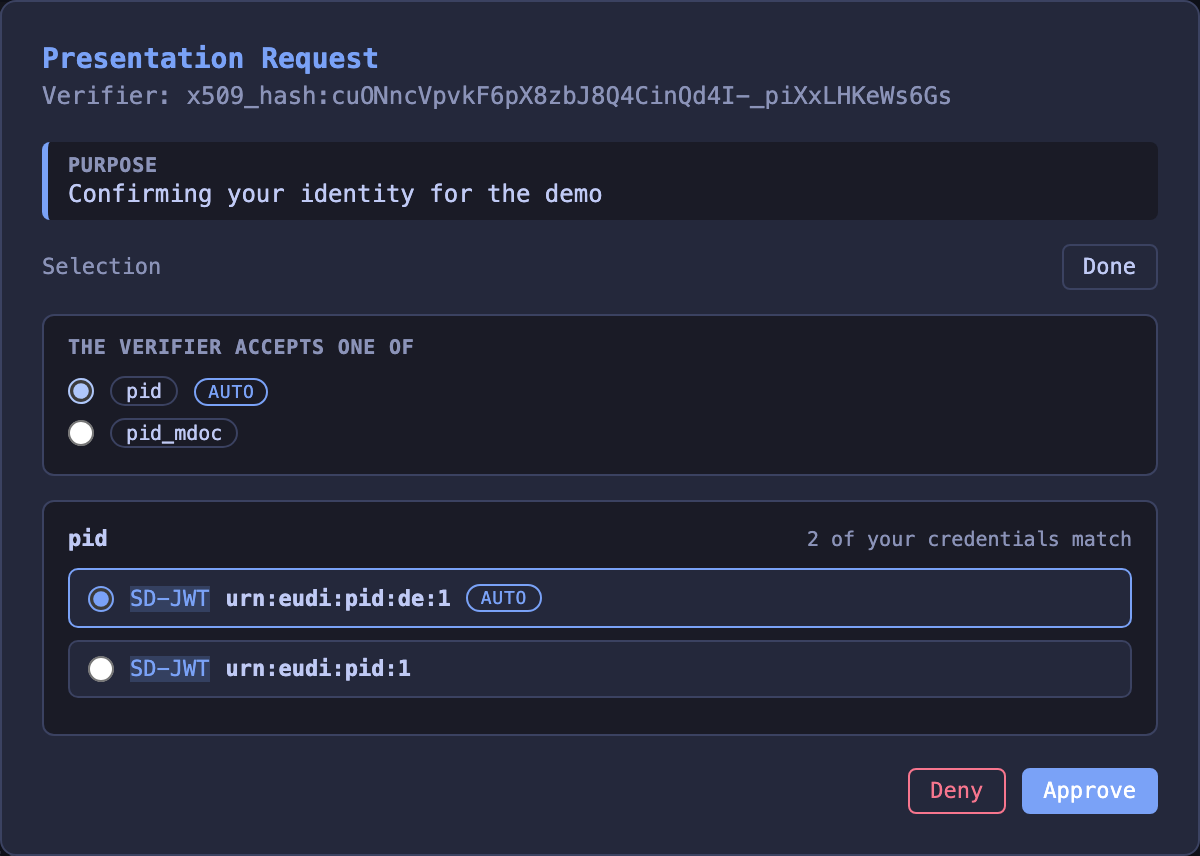
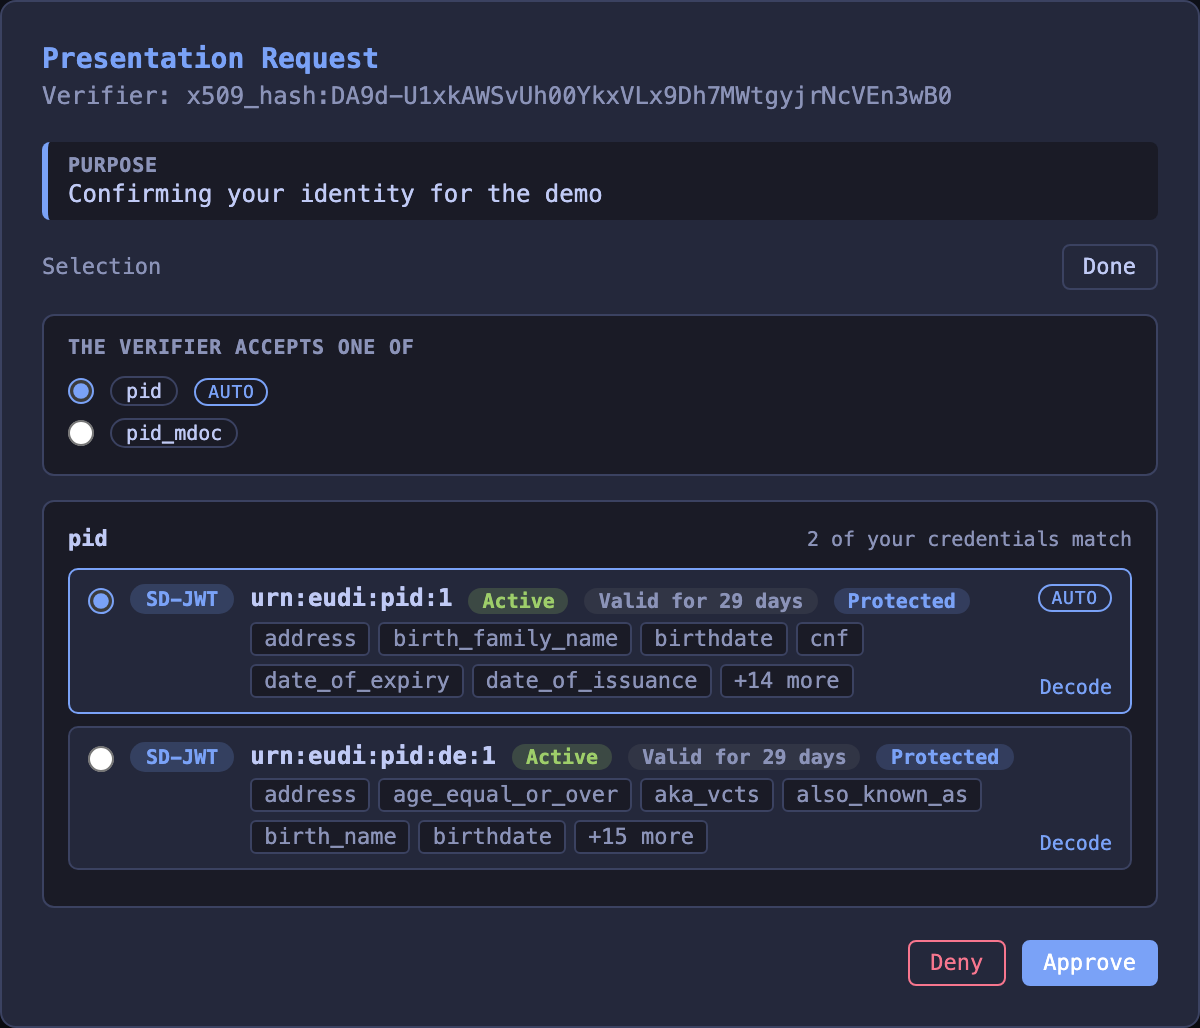
fix: consent picker renders candidates like the wallet overview

diff --git a/internal/wallet/static/app.js b/internal/wallet/static/app.js
@@ -189,6 +189,29 @@
     }
   }
 
+  // Whole credentials the consent dialog's Edit view needs for its candidate
+  // cards, by credential id. Neither of the things already loaded can stand in
+  // for them: a consent request carries only the claims the verifier asked
+  // for, and the credential list holds one page. A credential that could not
+  // be read is remembered as null, so its card falls back instead of the
+  // dialog asking for it again on every render.
+  const candidateDetails = new Map();
+
+  async function loadCandidateDetails(ids) {
+    const missing = ids.filter(id => !candidateDetails.has(id));
+    if (missing.length === 0) return false;
+    await Promise.all(missing.map(async id => {
+      try {
+        const resp = await fetch('/api/credentials/' + encodeURIComponent(id));
+        candidateDetails.set(id, resp.ok ? await resp.json() : null);
+      } catch (e) {
+        console.error('Loading credential ' + id + ' failed:', e);
+        candidateDetails.set(id, null);
+      }
+    }));
+    return true;
+  }
+
   function renderPager() {
     const pager = document.getElementById('cred-pager');
     const pages = Math.ceil(credentialTotal / CREDENTIALS_PER_PAGE);
@@ -296,6 +319,74 @@
     return shown + (rest > 0 ? '<span class="claim-tag">+' + rest + ' more</span>' : '');
   }
 
+  // The body of a credential card: the format badge, the type line with its
+  // status, expiry and protected badges, and the claim names with their
+  // namespaces. The credential list and the consent dialog's Edit view both
+  // render candidates with this, so a credential looks the same wherever the
+  // wallet names it. That matters most for the pair the picker used to lose:
+  // two mdoc PIDs share a doctype and a format, and the namespace chip is the
+  // one thing on the card that tells them apart.
+  //
+  // idPrefix keeps the badge ids unique, because the credential list stays in
+  // the DOM behind the consent overlay and the same credential can be on
+  // screen twice. withClaims leaves the claim names off, for a caller holding
+  // only part of them, where a subset would read as the whole set.
+  function credentialCardBody(cred, idPrefix, withClaims) {
+    const formatClass = cred.format === 'dc+sd-jwt' ? 'format-sdjwt' : cred.format === 'jwt_vc_json' ? 'format-jwt' : 'format-mdoc';
+    const formatLabel = cred.format === 'dc+sd-jwt' ? 'SD-JWT' : cred.format === 'jwt_vc_json' ? 'JWT VC' : 'mDoc';
+    const typeLabel = cred.vct || cred.doctype || cred.format;
+    const isProtected = cred.protected === true;
+
+    // Stable identity and selection hooks for UI automation
+    const dataset = {
+      credentialId: cred.id,
+      format: formatLabel === 'SD-JWT' ? 'sdjwt' : formatLabel === 'JWT VC' ? 'jwt' : 'mdoc',
+      status: 'none',
+    };
+    if (isProtected) dataset.protected = 'true';
+    if (cred.vct) dataset.vct = cred.vct;
+    if (cred.doctype) dataset.doctype = cred.doctype;
+
+    // Protected credentials are the shared baseline: the server refuses to
+    // delete or revoke them, so do not offer buttons that would only 403.
+    const protectedBadge = isProtected
+      ? '<span class="status-badge status-protected" id="' + idPrefix + 'protected-' + cred.id + '"' +
+        ' title="Part of this wallet\'s baseline. It cannot be deleted or revoked' +
+        ' through the UI or the API, only by editing the wallet file.">Protected</span>'
+      : '';
+
+    // Status badge: managed entries show live status, foreign status lists
+    // get a badge of their own.
+    const st = cred.status;
+    let statusBadge = '';
+    if (st && st.managed) {
+      const revoked = st.status === 1;
+      dataset.status = revoked ? 'revoked' : 'active';
+      statusBadge = '<span class="status-badge ' + (revoked ? 'status-revoked' : 'status-active') + '" id="' + idPrefix + 'status-' + cred.id + '" title="Status list: ' + escHtml(st.uri || '') + ' idx ' + st.idx + '">' + (revoked ? 'Revoked' : 'Active') + '</span>';
+    } else if (st && st.uri) {
+      dataset.status = 'external';
+      statusBadge = '<span class="status-badge status-external" id="' + idPrefix + 'status-' + cred.id + '" title="External status list: ' + escHtml(st.uri) + ' idx ' + st.idx + '">External status</span>';
+    }
+
+    // How long the credential is still good for. The wallet renews what it
+    // can shortly before this, so a date here is not always a deadline.
+    const expiry = expiryInfo(cred.expires_at);
+    let expiryBadge = '';
+    if (expiry) {
+      dataset.expiry = expiry.state;
+      expiryBadge = '<span class="status-badge status-' + expiry.state + '" id="' + idPrefix + 'expiry-' + cred.id +
+        '" title="' + escHtml(expiry.title) + '">' + escHtml(expiry.label) + '</span>';
+    }
+
+    const html = '<span class="format-badge ' + formatClass + '">' + formatLabel + '</span>' +
+      '<div class="credential-info">' +
+        '<div class="credential-type">' + escHtml(typeLabel) + statusBadge + expiryBadge + protectedBadge + '</div>' +
+        (withClaims ? '<div class="credential-claims">' + claimTagsFor(cred) + '</div>' : '') +
+      '</div>';
+
+    return { html: html, dataset: dataset };
+  }
+
   function renderCredentials() {
     if (credentials.length === 0) {
       credEmpty.style.display = '';
@@ -310,68 +401,30 @@
       const card = document.createElement('div');
       card.className = 'credential-card';
 
-      const formatClass = cred.format === 'dc+sd-jwt' ? 'format-sdjwt' : cred.format === 'jwt_vc_json' ? 'format-jwt' : 'format-mdoc';
-      const formatLabel = cred.format === 'dc+sd-jwt' ? 'SD-JWT' : cred.format === 'jwt_vc_json' ? 'JWT VC' : 'mDoc';
-      const typeLabel = cred.vct || cred.doctype || cred.format;
       const isProtected = cred.protected === true;
-
-      const claimSummary = claimTagsFor(cred);
-
-      // Stable identity and selection hooks for UI automation
+      const body = credentialCardBody(cred, '', true);
       card.id = 'credential-' + cred.id;
-      card.dataset.credentialId = cred.id;
-      card.dataset.format = formatLabel === 'SD-JWT' ? 'sdjwt' : formatLabel === 'JWT VC' ? 'jwt' : 'mdoc';
-      if (isProtected) card.dataset.protected = 'true';
-      if (cred.vct) card.dataset.vct = cred.vct;
-      if (cred.doctype) card.dataset.doctype = cred.doctype;
+      Object.assign(card.dataset, body.dataset);
 
-      // Status badge: managed entries show live status, foreign status lists
-      // get a badge plus an explicit check action.
+      // What can be done about the status this card shows: revoke an entry on
+      // the wallet's own list, re-check one on somebody else's.
       const st = cred.status;
-      let statusBadge = '';
       let revokeBtn = '';
-      // Protected credentials are the shared baseline: the server refuses to
-      // delete or revoke them, so do not offer buttons that would only 403.
-      const protectedBadge = isProtected
-        ? '<span class="status-badge status-protected" id="protected-' + cred.id + '"' +
-          ' title="Part of this wallet\'s baseline. It cannot be deleted or revoked' +
-          ' through the UI or the API, only by editing the wallet file.">Protected</span>'
-        : '';
       if (st && st.managed) {
-        const revoked = st.status === 1;
-        card.dataset.status = revoked ? 'revoked' : 'active';
-        statusBadge = '<span class="status-badge ' + (revoked ? 'status-revoked' : 'status-active') + '" id="status-' + cred.id + '" title="Status list: ' + escHtml(st.uri || '') + ' idx ' + st.idx + '">' + (revoked ? 'Revoked' : 'Active') + '</span>';
         if (!isProtected) {
-          revokeBtn = '<button class="btn btn-sm" id="revoke-' + cred.id + '" data-revoke="' + cred.id + '">' + (revoked ? 'Activate' : 'Revoke') + '</button>';
+          revokeBtn = '<button class="btn btn-sm" id="revoke-' + cred.id + '" data-revoke="' + cred.id + '">' + (st.status === 1 ? 'Activate' : 'Revoke') + '</button>';
         }
       } else if (st && st.uri) {
-        card.dataset.status = 'external';
-        statusBadge = '<span class="status-badge status-external" id="status-' + cred.id + '" title="External status list: ' + escHtml(st.uri) + ' idx ' + st.idx + '">External status</span>';
         revokeBtn = '<button class="btn btn-sm" id="status-check-' + cred.id + '" data-check-status="' + cred.id + '">Check status</button>';
-      } else {
-        card.dataset.status = 'none';
       }
 
-      // How long the credential is still good for. The wallet renews what it
-      // can shortly before this, so a date here is not always a deadline.
-      const expiry = expiryInfo(cred.expires_at);
-      let expiryBadge = '';
-      if (expiry) {
-        card.dataset.expiry = expiry.state;
-        expiryBadge = '<span class="status-badge status-' + expiry.state + '" id="expiry-' + cred.id +
-          '" title="' + escHtml(expiry.title) + '">' + escHtml(expiry.label) + '</span>';
-      }
-
-      card.innerHTML = '<span class="format-badge ' + formatClass + '">' + formatLabel + '</span>' +
-        '<div class="credential-info" title="Open in decoder">' +
-          '<div class="credential-type">' + escHtml(typeLabel) + statusBadge + expiryBadge + protectedBadge + '</div>' +
-          '<div class="credential-claims">' + claimSummary + '</div>' +
-        '</div>' +
+      card.innerHTML = body.html +
         '<div class="credential-actions">' +
           revokeBtn +
           '<button class="btn btn-sm" id="show-' + cred.id + '" data-show="' + cred.id + '">Show</button>' +
           (isProtected ? '' : '<button class="btn btn-danger btn-sm" id="delete-' + cred.id + '" data-delete="' + cred.id + '">Delete</button>') +
         '</div>';
+      card.querySelector('.credential-info').title = 'Open in decoder';
 
       const openDecoder = () => {
         // By id: the decoder is mounted on this wallet and can look the
@@ -1315,6 +1368,9 @@
   // an earlier request must not take that dialog over, and must not be left
   // stored to reappear once this one closes.
   let consentRequestOpen = false;
+  // Which request the dialog on screen belongs to. A late answer from a fetch
+  // one dialog started must not redraw the dialog that replaced it.
+  let consentRequestID = null;
 
   function presentError(err) {
     if (!err || !err.message) return;
@@ -1492,6 +1548,7 @@
 
   function showConsentDialog(req) {
     consentRequestOpen = true;
+    consentRequestID = req.id;
     dropStoredError();
     consentOverlay.classList.add('active');
 
@@ -1550,6 +1607,24 @@
     function isAutoSelection() {
       return selection.setChoices.every(c => c === 0) &&
         options.queries.every(q => selection.picks[q.id] === q.candidates[0].credential_id);
+    }
+    // The candidate cards want the whole credential, which the request does
+    // not carry. Reading them when the Edit view opens keeps a consent that is
+    // simply approved from asking for anything, and the cards render from the
+    // match in the meantime, so there is nothing to wait for on screen.
+    let loadingCandidates = false;
+    function ensureCandidateDetails() {
+      if (loadingCandidates) return;
+      const ids = [];
+      options.queries.forEach(q => q.candidates.forEach(c => {
+        if (!candidateDetails.has(c.credential_id) && !ids.includes(c.credential_id)) ids.push(c.credential_id);
+      }));
+      if (ids.length === 0) return;
+      loadingCandidates = true;
+      loadCandidateDetails(ids).then(loaded => {
+        loadingCandidates = false;
+        if (loaded && consentRequestOpen && consentRequestID === req.id) renderDialog();
+      });
     }
     function formatBadgeHtml(mc) {
       const formatClass = mc.format === 'dc+sd-jwt' ? 'format-sdjwt' : mc.format === 'jwt_vc_json' ? 'format-jwt' : 'format-mdoc';
@@ -1643,12 +1718,28 @@
           '</div>';
         q.candidates.forEach((c, i) => {
           const picked = selection.picks[qid] === c.credential_id;
+          // The same card the credential list renders. Until the whole
+          // credential is here the card is built from the match itself, which
+          // knows the type and the format but only the claims the verifier
+          // asked for, so the claim names wait for the rest.
+          const detail = candidateDetails.get(c.credential_id);
+          const body = credentialCardBody(detail || {
+            id: c.credential_id, format: c.format, vct: c.vct, doctype: c.doctype, claims: c.claims,
+          }, 'candidate-', Boolean(detail));
           html += '<div class="candidate' + (picked ? ' selected' : '') + '" id="consent-candidate-' + escHtml(qid) + '-' + c.credential_id + '" data-query="' + escHtml(qid) + '" data-cred="' + c.credential_id + '" tabindex="0" role="radio" aria-checked="' + picked + '" aria-label="' + escHtml(c.vct || c.doctype || c.format) + '">' +
             '<div class="candidate-row">' +
               '<input type="radio" name="consent-pick-' + escHtml(qid) + '"' + (picked ? ' checked' : '') + ' tabindex="-1" aria-hidden="true">' +
-              formatBadgeHtml(c) +
-              '<span class="candidate-type">' + escHtml(c.vct || c.doctype || c.format) + '</span>' +
-              (i === 0 ? '<span class="auto-chip">auto</span>' : '') +
+              body.html +
+              '<div class="candidate-actions">' +
+                (i === 0 ? '<span class="auto-chip">auto</span>' : '') +
+                // By id, like the credential list's own decoder link, and in a
+                // new tab: the consent is still pending and waiting for an
+                // answer, so reading a credential must not navigate away from
+                // the dialog that is asking.
+                '<a class="candidate-decode" id="consent-decode-' + escHtml(qid) + '-' + c.credential_id + '"' +
+                  ' href="/decoder/?id=' + encodeURIComponent(c.credential_id) + '" target="_blank" rel="noopener"' +
+                  ' title="Open in decoder">Decode</a>' +
+              '</div>' +
             '</div></div>';
         });
         html += '</div>';
@@ -1686,6 +1777,13 @@
         el.addEventListener('keydown', e => {
           if (e.key === 'Enter' || e.key === ' ') { e.preventDefault(); choose(); }
         });
+      });
+      // The row it sits in selects the candidate, so the link keeps its own
+      // click. Without this, picking a different candidate re-renders the
+      // dialog while the browser is still following the anchor.
+      consentDialog.querySelectorAll('.candidate-decode').forEach(link => {
+        link.addEventListener('click', e => e.stopPropagation());
+        link.addEventListener('keydown', e => e.stopPropagation());
       });
       if (options) {
         consentDialog.querySelectorAll('.consent-claim input[type="checkbox"]').forEach(cb => {
@@ -1726,6 +1824,7 @@
     }
 
     if (options && selection.editing) {
+      ensureCandidateDetails();
       html = editScreenHtml();
     }
 

diff --git a/internal/wallet/static/style.css b/internal/wallet/static/style.css
@@ -213,7 +213,8 @@ header h1 {
   gap: 12px;
 }
 
-.credential-card .format-badge {
+.credential-card .format-badge,
+.candidate .format-badge {
   font-size: 10px;
   padding: 2px 8px;
   border-radius: 10px;
@@ -229,10 +230,16 @@ header h1 {
 .credential-info {
   flex: 1;
   min-width: 0;
+}
+
+/* Only in the list does the card body open the decoder. On a consent
+   candidate the click picks the credential, and the decoder has a link of its
+   own. */
+.credential-card .credential-info {
   cursor: pointer;
 }
 
-.credential-info:hover .credential-type {
+.credential-card .credential-info:hover .credential-type {
   color: var(--accent);
 }
 
@@ -910,21 +917,42 @@ header h1 {
   cursor: default;
 }
 
+/* A candidate holds the same card the credential list renders, so the row
+   lines its parts up with the top of that card rather than centering on it. */
 .candidate-row {
   display: flex;
-  align-items: center;
+  align-items: flex-start;
   gap: 8px;
   font-size: 11px;
-  flex-wrap: wrap;
 }
 
 .candidate-row input[type="radio"] {
   accent-color: var(--accent);
+  margin-top: 2px;
+  flex-shrink: 0;
 }
 
-.candidate-type {
-  font-weight: 600;
-  font-size: 11px;
+/* The wallet's own choice at the top, the decoder link at the bottom, so the
+   auto chip keeps the corner to itself. */
+.candidate-actions {
+  flex-shrink: 0;
+  align-self: stretch;
+  display: flex;
+  flex-direction: column;
+  align-items: flex-end;
+  gap: 8px;
+}
+
+.candidate-decode {
+  margin-top: auto;
+  color: var(--accent);
+  font-size: 10px;
+  white-space: nowrap;
+  text-decoration: none;
+}
+
+.candidate-decode:hover {
+  text-decoration: underline;
 }
 
 .consent-buttons {

diff --git a/CHANGELOG.md b/CHANGELOG.md
@@ -5,6 +5,12 @@ All notable changes to this project will be documented in this file.
 The format is based on [Keep a Changelog](https://keepachangelog.com/en/1.1.0/),
 and this project adheres to [Semantic Versioning](https://semver.org/spec/v2.0.0.html).
 
+## [1.25.2] - 2026-08-19
+
+### Fixed
+
+- **The consent dialog's Edit view renders each candidate like the wallet overview.** A candidate showed its format and its type, which is what every credential matching one DCQL query has in common, so two PIDs that differ in their data appeared as the same row twice. Each one is now the card the credential list renders (the status, expiry and protected badges, and the claim names grouped by mdoc namespace), next to a **Decode** link that opens it in the decoder in a new tab
+
 ## [1.25.1] - 2026-08-19
 
 ### Fixed
